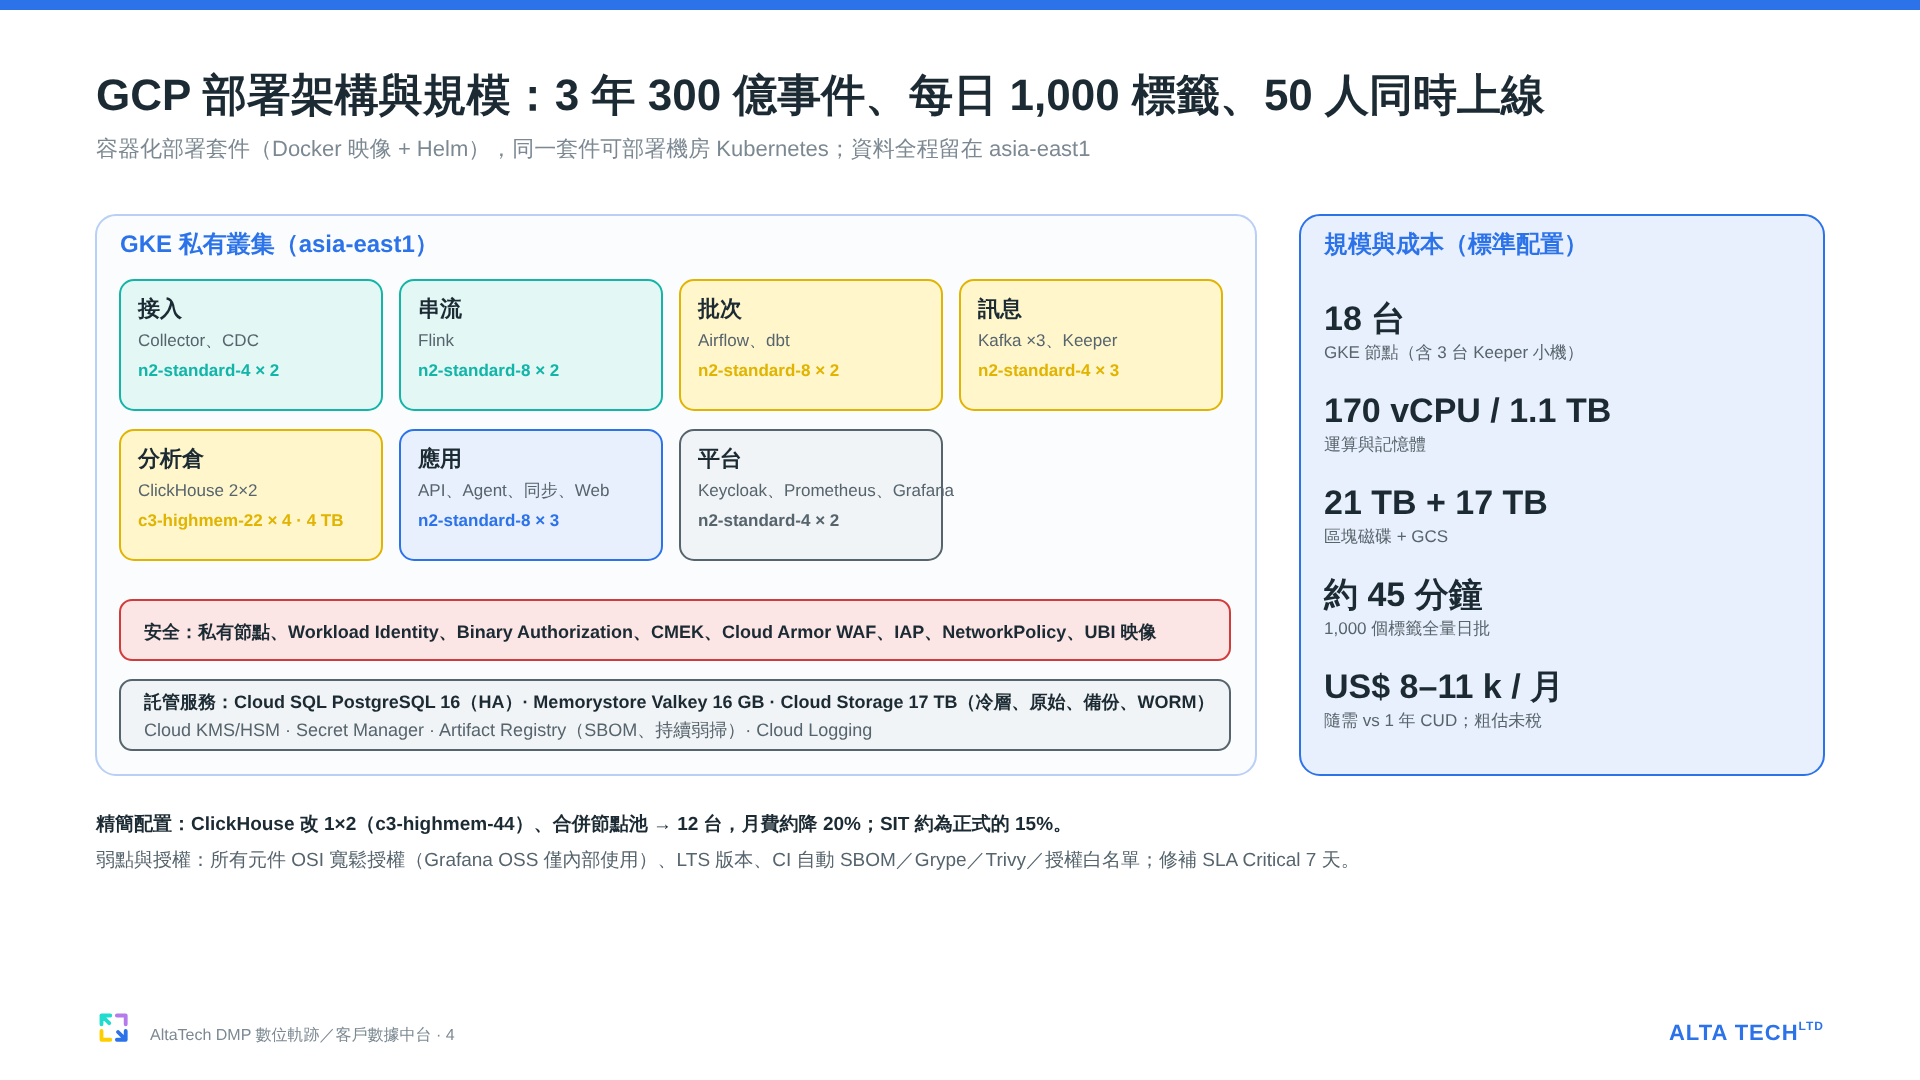
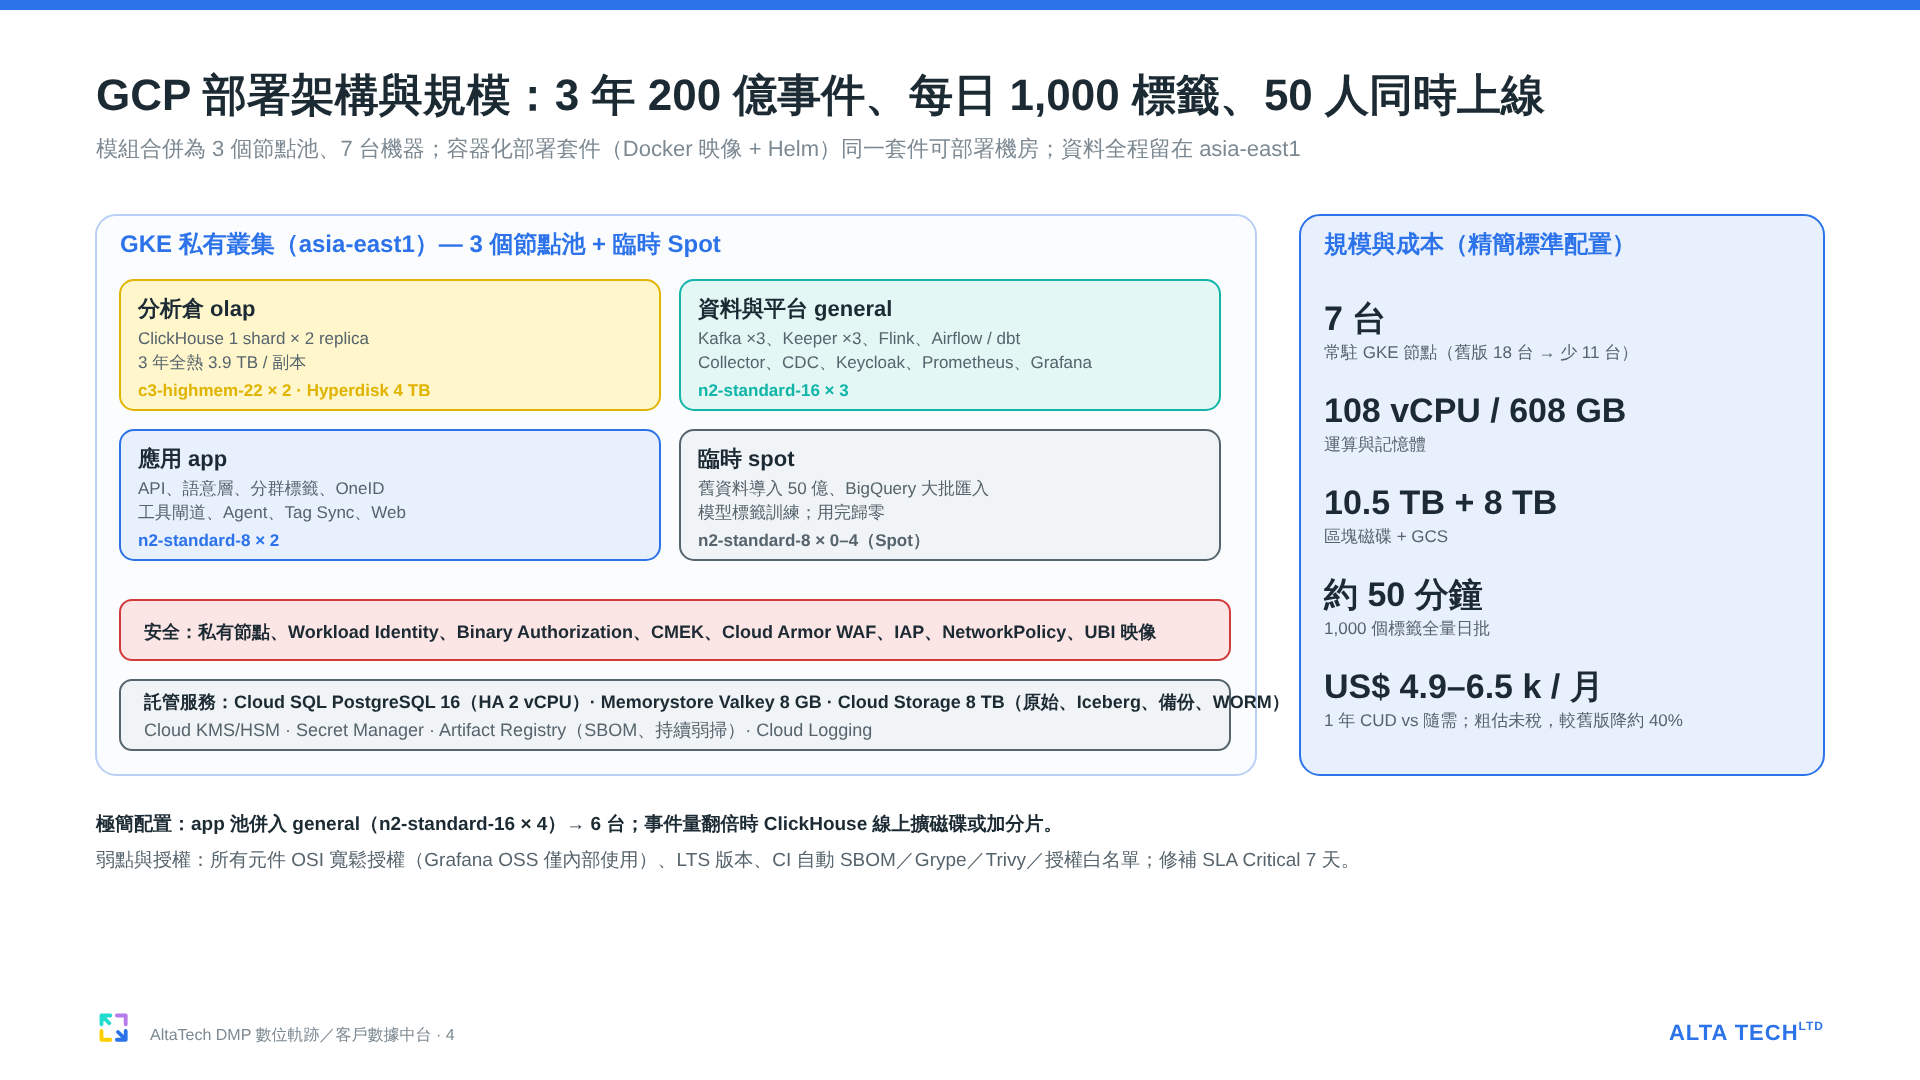
docs/13 v0.4：3 年 200 億事件（首年 100 億含舊資料導入、年增 50 億），模組合併為 3 個節點池 7 台
- 儲存／標籤／同步／併發重算；精簡標準 7 台與極簡 6 台；月費較舊版降約 40%
- values-gcp-20b.yaml（預設）、tofu profile 20b（含 Spot 池）、Cloud SQL 與 Valkey 縮小
- 簡報第 4 頁更新為新配置與數字

Claude-Session: https://claude.ai/code/session_01P34YW1HpKGZSULQ7WR823p

diff --git a/docs/diagrams/build_slides.py b/docs/diagrams/build_slides.py
@@ -146,30 +146,29 @@ def s3():
 
 # ------------------------------------------------------------------ 4. GCP 部署與規模
 def s4():
-    s = Slide("GCP 部署架構與規模：3 年 300 億事件、每日 1,000 標籤、50 人同時上線", "容器化部署套件（Docker 映像 + Helm），同一套件可部署機房 Kubernetes；資料全程留在 asia-east1", 4)
-    # GKE
+    s = Slide("GCP 部署架構與規模：3 年 200 億事件、每日 1,000 標籤、50 人同時上線", "模組合併為 3 個節點池、7 台機器；容器化部署套件（Docker 映像 + Helm）同一套件可部署機房；資料全程留在 asia-east1", 4)
     s.rect(96, 215, 1160, 560, "#FBFCFE", C["brandline"], 20)
-    s.text(120, 252, "GKE 私有叢集（asia-east1）", 24, 800, C["brand"])
-    pools = [("接入", "Collector、CDC", "n2-standard-4 × 2", "teal"), ("串流", "Flink", "n2-standard-8 × 2", "teal"), ("批次", "Airflow、dbt", "n2-standard-8 × 2", "yellow"),
-             ("訊息", "Kafka ×3、Keeper", "n2-standard-4 × 3", "yellow"), ("分析倉", "ClickHouse 2×2", "c3-highmem-22 × 4 · 4 TB", "yellow"), ("應用", "API、Agent、同步、Web", "n2-standard-8 × 3", "brand"),
-             ("平台", "Keycloak、Prometheus、Grafana", "n2-standard-4 × 2", "gray")]
-    for i, (t, d, m, c) in enumerate(pools):
-        x = 120 + (i % 4) * 280; y = 280 + (i // 4) * 150
-        s.rect(x, y, 262, 130, C[c + "soft"], C[c], 14)
-        s.text(x + 18, y + 36, t, 22, 800); s.text(x + 18, y + 66, d, 17, 400, C["gray"]); s.text(x + 18, y + 96, m, 17, 700, C[c])
+    s.text(120, 252, "GKE 私有叢集（asia-east1）— 3 個節點池 + 臨時 Spot", 24, 800, C["brand"])
+    pools = [("分析倉 olap", ["ClickHouse 1 shard × 2 replica", "3 年全熱 3.9 TB / 副本"], "c3-highmem-22 × 2 · Hyperdisk 4 TB", "yellow"),
+             ("資料與平台 general", ["Kafka ×3、Keeper ×3、Flink、Airflow / dbt", "Collector、CDC、Keycloak、Prometheus、Grafana"], "n2-standard-16 × 3", "teal"),
+             ("應用 app", ["API、語意層、分群標籤、OneID", "工具閘道、Agent、Tag Sync、Web"], "n2-standard-8 × 2", "brand"),
+             ("臨時 spot", ["舊資料導入 50 億、BigQuery 大批匯入", "模型標籤訓練；用完歸零"], "n2-standard-8 × 0–4（Spot）", "gray")]
+    for i, (t, ls, m, c) in enumerate(pools):
+        x = 120 + (i % 2) * 560; y = 280 + (i // 2) * 150
+        s.rect(x, y, 540, 130, C[c + "soft"], C[c], 14)
+        s.text(x + 18, y + 36, t, 22, 800); s.text(x + 18, y + 64, ls[0], 17, 400, C["gray"]); s.text(x + 18, y + 88, ls[1], 17, 400, C["gray"]); s.text(x + 18, y + 116, m, 17, 700, C[c])
     s.rect(120, 600, 1110, 60, C["redsoft"], C["red"], 12)
     s.text(144, 638, "安全：私有節點、Workload Identity、Binary Authorization、CMEK、Cloud Armor WAF、IAP、NetworkPolicy、UBI 映像", 18, 600)
     s.rect(120, 680, 1110, 70, C["graysoft"], C["gray"], 12)
-    s.text(144, 708, "託管服務：Cloud SQL PostgreSQL 16（HA）· Memorystore Valkey 16 GB · Cloud Storage 17 TB（冷層、原始、備份、WORM）", 18, 600)
+    s.text(144, 708, "託管服務：Cloud SQL PostgreSQL 16（HA 2 vCPU）· Memorystore Valkey 8 GB · Cloud Storage 8 TB（原始、Iceberg、備份、WORM）", 18, 600)
     s.text(144, 736, "Cloud KMS/HSM · Secret Manager · Artifact Registry（SBOM、持續弱掃）· Cloud Logging", 18, 400, C["gray"])
-    # 右：規模數字
     s.rect(1300, 215, 524, 560, C["brandsoft"], C["brand"], 20)
-    s.text(1324, 252, "規模與成本（標準配置）", 24, 800, C["brand"])
-    nums = [("18 台", "GKE 節點（含 3 台 Keeper 小機）"), ("170 vCPU / 1.1 TB", "運算與記憶體"), ("21 TB + 17 TB", "區塊磁碟 + GCS"), ("約 45 分鐘", "1,000 個標籤全量日批"), ("US$ 8–11 k / 月", "隨需 vs 1 年 CUD；粗估未稅")]
+    s.text(1324, 252, "規模與成本（精簡標準配置）", 24, 800, C["brand"])
+    nums = [("7 台", "常駐 GKE 節點（舊版 18 台 → 少 11 台）"), ("108 vCPU / 608 GB", "運算與記憶體"), ("10.5 TB + 8 TB", "區塊磁碟 + GCS"), ("約 50 分鐘", "1,000 個標籤全量日批"), ("US$ 4.9–6.5 k / 月", "1 年 CUD vs 隨需；粗估未稅，較舊版降約 40%")]
     for i, (a, b) in enumerate(nums):
         y = 300 + i * 92
         s.text(1324, y + 30, a, 34, 800, C["ink"]); s.text(1324, y + 58, b, 17, 400, C["gray"])
-    s.text(96, 830, "精簡配置：ClickHouse 改 1×2（c3-highmem-44）、合併節點池 → 12 台，月費約降 20%；SIT 約為正式的 15%。", 19, 600, C["ink"])
+    s.text(96, 830, "極簡配置：app 池併入 general（n2-standard-16 × 4）→ 6 台；事件量翻倍時 ClickHouse 線上擴磁碟或加分片。", 19, 600, C["ink"])
     s.text(96, 866, "弱點與授權：所有元件 OSI 寬鬆授權（Grafana OSS 僅內部使用）、LTS 版本、CI 自動 SBOM／Grype／Trivy／授權白名單；修補 SLA Critical 7 天。", 19, 400, C["gray"])
     s.save("slide-4-gcp-deployment.svg")
 

diff --git a/docs/13-capacity-plan-gcp.md b/docs/13-capacity-plan-gcp.md
@@ -1,0 +1,136 @@
+# GCP 容量規劃：3 年 200 億事件（首年 100 億含舊資料導入、年增 50 億）、每日 1,000 個標籤、API 同步、50 人同時上線
+
+> 版本 v0.4（2026-10-14）。本版依新假設縮小事件量，並把模組合併到 **3 個節點池、7 台機器**（極簡 6 台）。價格為粗估，以 GCP Pricing Calculator 為準。舊版（300 億、18 台）保留於 §10 供對照。
+
+## 1. 需求換算
+
+| 項目 | 數值 | 推導 |
+|---|---|---|
+| 總事件量 | **200 億 / 3 年** | 第 1 年 100 億（其中約 50 億為舊系統一次性導入）、第 2 年 +50 億、第 3 年 +50 億 |
+| 日常增量 | 50 億 / 年 ≈ **1,370 萬 / 日** | 設計尖峰 5,000 萬 / 日、**7,000 事件/秒**（開盤前 10 分鐘） |
+| 舊資料導入 | 50 億，一次性 | 以 Spark／dlt 從 GCS Parquet 批次灌入，4 台臨時 Spot 節點約 1–2 天，導入後釋放 |
+| 客戶數（假設） | 300 萬 OneID | — |
+| 標籤 | 1,000 個，每日全量重算；5,000 個標籤值 Bitmap，版本保留 7 份 | — |
+| API 同步 | 每日變動 5–10%（0.75–1.5 億個「客戶 × 標籤」變更） | Kafka 增量 + GCS Parquet + REST 點查 |
+| 同時上線 | 50 人；高峰 5 查詢/秒 | ClickHouse 併發上限 100 |
+
+## 2. 儲存量推導
+
+| 資料 | 計算 | 結果 |
+|---|---|---|
+| ClickHouse 明細（L0）單副本 | 200 億 × 150 B | **3.0 TB** |
+| MV（L1/L2/L3）+ 索引 + Projection | L0 × 20% | 0.6 TB |
+| 標籤 Bitmap、users／items／id_map、audit_log | — | 0.3 TB |
+| **ClickHouse 單副本合計（3 年全熱）** | | **≈ 3.9 TB**；2 副本 ≈ 7.8 TB |
+| 分層選項 | 熱 13 個月（約 55 億事件 ≈ 1.0 TB/副本 + MV）→ 每台 2 TB 即可；其餘走 GCS S3 disk | 本版建議 **3 年全熱**（磁碟便宜、查詢一致），每台 Hyperdisk 4 TB 仍有 25% 餘裕；第 4 年起再開冷層 |
+| Kafka（7 天） | 1,370 萬 × 7 × 0.8 KB × 3 副本 | 0.25 TB（尖峰月 0.8 TB） |
+| GCS 原始事件（Iceberg raw，3 年） | 200 億 × 0.12 KB | 2.4 TB |
+| GCS 標準化 Iceberg（雙向映射、重算） | 200 億 × 0.15 KB | 3.0 TB |
+| GCS 舊資料導入暫存、備份、審計 WORM、checkpoint | — | 2.5 TB |
+| **GCS 合計** | | **≈ 8 TB**（舊資料導入暫存可於導入後刪除） |
+| PostgreSQL | 字典、角色、審批、Insight Store、Knowledge Pack | < 100 GB |
+| Valkey | OneID 快取 + 即時標籤 + 結果快取 | ≈ 3 GB（配 8 GB） |
+
+寫入：平均 160 事件/秒、尖峰 7,000/秒，單一 ClickHouse 節點上限 > 10 萬列/秒，寫入不是瓶頸。
+
+## 3. 模組合併原則
+
+| 原則 | 說明 |
+|---|---|
+| OLAP 獨立 | ClickHouse 吃記憶體與磁碟 IO，與其他服務分開，避免查詢被排程作業擠壓 |
+| 「資料 + 平台」合併 | Kafka、Keeper、Flink、Airflow／dbt、Collector、CDC、Keycloak、Prometheus、Grafana 都是中低負載，合併到一個 **general 池**；以 Pod 反親和把 Kafka broker 與 Keeper 分散到 3 台 |
+| 「應用」合併 | API、語意層、分群標籤、OneID、工具閘道、Agent Runtime、Tag Sync、Web 全是無狀態 Python/Go/靜態服務，合併到 **app 池**；50 人負載下 2 台即可，HPA 再長 |
+| 磁碟各自 PVC | Kafka、Prometheus 的資料盤為獨立 PVC（pd-balanced），不與系統盤爭 IO |
+| 臨時運算用 Spot | 舊資料導入與 BigQuery 大批匯入用 Spot 節點池，用完歸零 |
+
+## 4. 建議配置
+
+### 4.1 精簡標準配置（建議）：3 個節點池、**7 台**
+
+| 節點池 | 機型 × 數量 | 每台 vCPU / RAM | 磁碟 | 放什麼 |
+|---|---|---|---|---|
+| **olap** | **c3-highmem-22 × 2**（1 shard × 2 replica） | 22 / 176 GB | **Hyperdisk Balanced 4 TB**（12,000 IOPS、800 MB/s） | ClickHouse（3 年全熱 3.9 TB/副本） |
+| **general** | **n2-standard-16 × 3** | 16 / 64 GB | 系統盤 200 GB；Kafka PVC 500 GB ×3；Prometheus PVC 150 GB | Kafka ×3（各 3 vCPU/12 GB）、Keeper ×3（1/2）、Flink JM 1/2 + TM ×2（4/16）、Airflow + dbt（2/8）、Collector ×2（1/1）、Debezium（1/2）、Keycloak ×2（1/2）、Prometheus（2/8）、Grafana（0.5/1）、OTel（1/2）→ 約 32 vCPU / 100 GB，占 3 台 2/3 |
+| **app** | **n2-standard-8 × 2** | 8 / 32 GB | 系統盤 100 GB | API ×3（2/4）、語意層 ×2（1/2）、分群標籤 ×2（2/4）、OneID ×2（1/2）、工具閘道 ×2（1/2）、Agent Runtime ×2（1/2）、Tag Sync ×2（2/4）、Web ×2（0.5/0.5）→ 約 20 vCPU / 40 GB，HPA 可長到 3 台 |
+| spot（臨時） | n2-standard-8 × 0–4（Spot） | 8 / 32 GB | — | 舊資料導入、BigQuery 大批匯入、模型標籤訓練 |
+| **Cloud SQL for PostgreSQL 16** | db-custom-2-8192（區域 HA） | 2 / 8 GB | SSD 200 GB | 控制面、Insight Store |
+| **Memorystore for Valkey** | 8 GB（Standard HA） | — | — | 快取 |
+| **Cloud Storage** | 8 TB（Standard；備份與 raw 90 天後 Nearline） | — | — | 原始、Iceberg、備份、WORM |
+| **合計** | **7 台常駐**（+ 臨時 Spot） | **≈ 108 vCPU / 608 GB** | ≈ 10.5 TB 區塊 + 8 TB GCS | |
+
+### 4.2 極簡配置：**6 台**
+app 池併入 general 池 → **general n2-standard-16 × 4**，其餘不變。少 1 台、月費再降約 5%；代價是使用者介面延遲受日批影響的風險略增（以 Pod 優先級與 ResourceQuota 緩解）。
+
+### 4.3 為什麼 ClickHouse 不再分 2 shard
+200 億事件單副本 3.9 TB，單節點可穩定承載（ClickHouse 單機百億列常見）；50 人併發下重查詢同時 5–8 個，2 台 × 22 vCPU 足夠。分片帶來的平行加速對 30 天漏斗（約 5 億事件掃描）影響在 2–4 秒內，不值得多 2 台。日後事件量翻倍再加分片（Operator 支援線上擴分片，需重分佈一次）。
+
+### 4.4 非正式環境
+- SIT：values-small，2 台 n2-standard-8（ClickHouse 單節點 + 其餘全擠在一台），資料 1/100。
+- UAT／效能驗證：與正式同拓撲但 olap 改 c3-highmem-8 × 2，用 200 億合成資料跑基準，驗證後縮回。
+
+## 5. 每日 1,000 個標籤的運算
+
+| 步驟 | 作法 | 時間（2 × c3-highmem-22） |
+|---|---|---|
+| L1 人日聚合 | MV 隨寫入維護 | 0 |
+| 統計／偏好標籤（約 600） | 合併成約 120 條 SQL，6 路並行 | 20–30 分鐘 |
+| 規則標籤（約 300） | Bitmap 交併差 | < 3 分鐘 |
+| SQL／模型標籤（約 100） | 沙箱 SQL（限 20 GB）；模型在 Spot 節點 | 10–20 分鐘（並行） |
+| 版本切換、分布統計、血緣 | 原子切換 | < 2 分鐘 |
+| **合計** | Airflow 拓撲並行 | **約 50 分鐘**，02:00–03:00 |
+
+日批期間 ClickHouse `batch` workload 限 10 執行緒、優先級最低，保留一半 CPU 給線上。
+
+## 6. 標籤 API 同步
+
+| 模式 | 吞吐（本配置） |
+|---|---|
+| Kafka 增量 `dmp.tag_updates`／`dmp.segment_updates` | 0.75–1.5 億變更 / 日，Tag Sync 2 Pod × 2 vCPU，約 20–30 分鐘送完 |
+| GCS Parquet 全量／增量 | 300 萬 × 1,000 = 30 億格 ≈ 6 GB，約 5 分鐘 |
+| REST `GET /v1/sync/tags`、`/changes` | 每 Pod 2,000 req/s，Valkey 快取 < 10 ms |
+
+輸出只含代碼化 ID；每次同步寫審計 `sync.delivered`。
+
+## 7. 50 人同時上線
+
+| 項目 | 設定 |
+|---|---|
+| ClickHouse | `max_concurrent_queries=100`；人 12 GB/60 s、agent 8 GB/40 s/20 GB 掃描、batch 最低優先；Query Cache 5 分鐘 |
+| 負載 | 5 查詢/秒，九成命中 L2／快取；同時重查詢 5–8 個 → 2 台 × 22 vCPU 餘裕充足 |
+| API | app 池 2 台共 16 vCPU，FastAPI 單 Pod 1,000+ req/s |
+| AI 問答 | 每問 3–5 次工具呼叫，50 人同時發問占 ClickHouse 併發 < 10 |
+
+## 8. 月費粗估（asia-east1，隨需，未稅，USD）
+
+| 項目 | 精簡標準（7 台） | 極簡（6 台） |
+|---|---|---|
+| c3-highmem-22 × 2（≈ $1.5/hr） | ≈ 2,200 | ≈ 2,200 |
+| Hyperdisk Balanced 8 TB + 佈建 IOPS | ≈ 950 | ≈ 950 |
+| n2-standard-16 × 3（≈ $0.78/hr）／× 4 | ≈ 1,700 | ≈ 2,280 |
+| n2-standard-8 × 2（≈ $0.39/hr） | ≈ 570 | — |
+| 區塊磁碟（Kafka 1.5 TB + Prometheus + 系統盤） | ≈ 250 | ≈ 250 |
+| Cloud SQL HA 2 vCPU/8 GB + 200 GB | ≈ 250 | ≈ 250 |
+| Memorystore Valkey 8 GB | ≈ 80 | ≈ 80 |
+| GCS 8 TB（含 Nearline 分層） | ≈ 160 | ≈ 160 |
+| 網路、Cloud Armor、KMS、Logging | ≈ 300 | ≈ 300 |
+| 臨時 Spot（舊資料導入，攤 3 年） | ≈ 20 | ≈ 20 |
+| **合計** | **≈ 6,500 / 月**（≈ 21 萬 TWD） | **≈ 6,500 / 月**（4 台 n2-standard-16 ≈ 3 台 + 2 台 n2-8，費用相近） |
+| 1 年 CUD（運算 −37%） | **≈ 4,900 / 月** | ≈ 4,900 / 月 |
+
+對比舊版（300 億、18 台）約 10,900 / 月：**少 11 台、月費降約 40%**。
+
+## 9. 風險與緩解
+| 風險 | 緩解 |
+|---|---|
+| general 池混跑 Kafka 與 Flink，磁碟 IO 互相影響 | Kafka 獨立 PVC；Flink 狀態小（< 10 GB）；Prometheus 獨立 PVC |
+| 單一節點故障影響多個服務 | 3 台 general 以反親和分散 Kafka／Keeper／Keycloak；Flink JM 由 Operator 自動重啟（< 1 分鐘） |
+| ClickHouse 單分片，未來事件量翻倍 | 磁碟可線上擴到 8 TB；超過再加分片 |
+| 舊資料導入 50 億一次灌入 | 用 Spot 池 + `INSERT ... SELECT` 分區批次；導入期間暫停日批 |
+
+## 10. 舊版對照（300 億事件、18 台）
+ClickHouse 2×2 c3-highmem-22（4 TB）、Kafka n2-standard-4 ×3、Flink n2-standard-8 ×2、批次 n2-standard-8 ×2、接入 n2-standard-4 ×2、應用 n2-standard-8 ×3、平台 n2-standard-4 ×2、Keeper e2 ×3；≈ 170 vCPU / 1.1 TB；月費 ≈ 10,900（CUD ≈ 8,200）。對應 `values-gcp-30b.yaml` 與 tofu profile `large-30b`，保留供未來擴張。
+
+## 11. 對應檔案
+- `deploy/helm/altatech-dmp/values-gcp-20b.yaml`：3 個節點池的配置（預設）。
+- `deploy/tofu/gcp/main.tf`：profile `20b`（預設）、`30b`、`large`。
+- `backend/openapi.yaml`：`/v1/sync/*`。

diff --git a/docs/12-architecture-diagrams.md b/docs/12-architecture-diagrams.md
@@ -17,7 +17,7 @@
 | 1 系統架構 | `slides/slide-1-architecture.png` | 一個中台承接 GA360 行為軌跡與證券交易事件；四大能力 + 基礎 + 治理 |
 | 2 數據流 | `slides/slide-2-data-flow.png` | 五個步驟、五個延遲承諾 |
 | 3 AI Agent | `slides/slide-3-ai-agent.png` | 選擇題式 agent 流程、六個內建 agent、金融業守門 |
-| 4 GCP 部署與規模 | `slides/slide-4-gcp-deployment.png` | 節點池、託管服務、安全、18 台／月費 |
+| 4 GCP 部署與規模 | `slides/slide-4-gcp-deployment.png` | 3 個節點池 7 台、託管服務、安全、月費 |
 
 ![簡報 1](diagrams/slides/slide-1-architecture.png)
 ![簡報 2](diagrams/slides/slide-2-data-flow.png)
